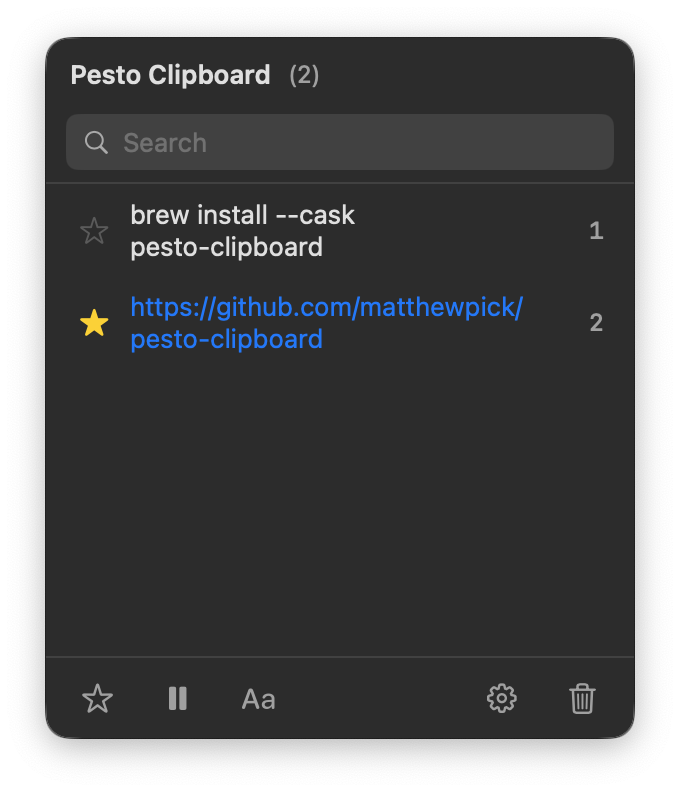
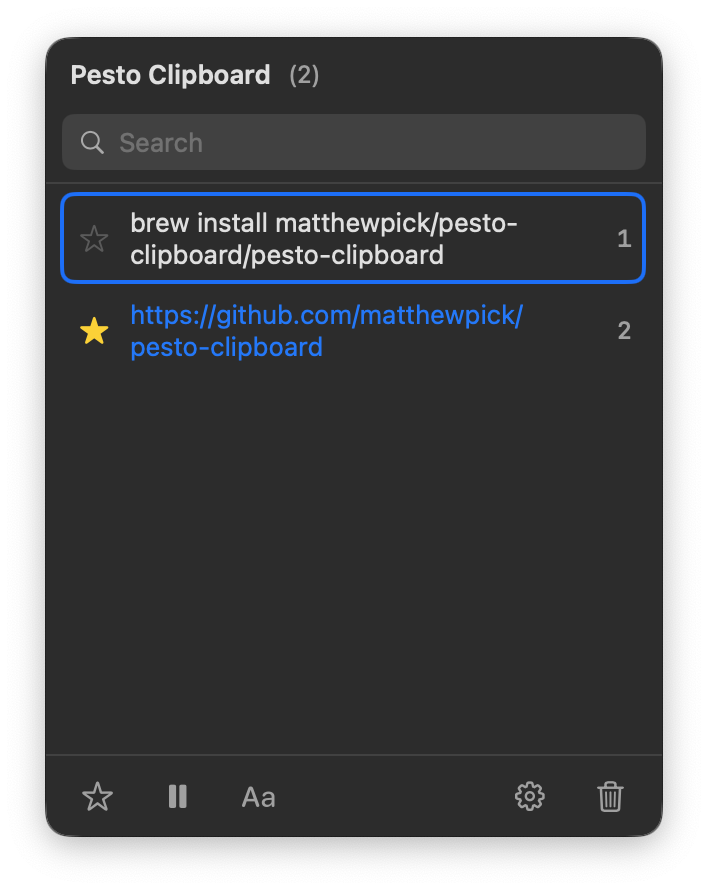
Update README with Homebrew install instructions

diff --git a/README.md b/README.md
@@ -25,17 +25,17 @@ Fresh, free, and open-source clipboard management.
 
 ## Installation
 
-### Homebrew (Coming Soon)
+### Homebrew
 
 ```bash
-brew install --cask pesto-clipboard
+brew install matthewpick/pesto-clipboard/pesto-clipboard
 ```
 
-### Manual Installation
+### Manual Download
 
-1. Download the latest release from GitHub Releases
-2. Drag `Pesto Clipboard.app` to your Applications folder
-3. Launch the app
+1. Download the latest `.dmg` from [GitHub Releases](https://github.com/matthewpick/pesto-clipboard/releases)
+2. Open the DMG and drag Pesto Clipboard to Applications
+3. Launch from Applications
 
 ## Building from Source
 
